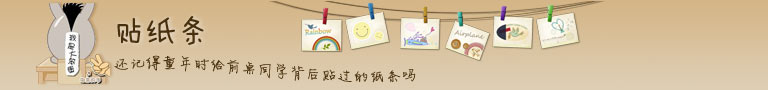
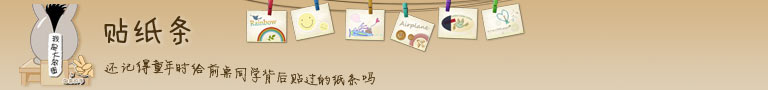
修改banner；tip min-length; add role, sex, vip, createtime；提示；点昵称可贴纸条

Changed region(s): [[0.3125, 0.0, 0.7812, 0.6667], [0.0, 0.0222, 0.5625, 0.9556]]

diff --git a/views/index.html b/views/index.html
@@ -6,18 +6,35 @@
 <link rel="stylesheet" type="text/css" href="sticker/css/jScrollPane.css" />
 <link rel="stylesheet" type="text/css" href="sticker/css/tip-yellowsimple/tip-yellowsimple.css" />
 <link rel="stylesheet" type="text/css" href="sticker/js/jBox/Skins/Brown/jbox.css"/>
-<link rel="stylesheet" type="text/css" href="sticker/css/index.css" />
-<script type="text/javascript" src="sticker/js/jquery.min.js"></script>
-<script type="text/javascript" src="sticker/js/jquery.mousewheel.js"></script>
-<script type="text/javascript" src="sticker/js/jScrollPane.js"></script>
+<link rel="stylesheet" type="text/css" href="sticker/css/index.css?v=120610" />
+<script type="text/javascript" src="sticker/js/jquery-1.4.4.min.js"></script>
+<script type="text/javascript" src="sticker/js/jquery.mousewheel.min.js"></script>
+<script type="text/javascript" src="sticker/js/jScrollPane.min.js"></script>
 <script type="text/javascript" src="sticker/js/jquery.poshytip.min.js"></script>
-<script type="text/javascript" src="sticker/js/yyapi-1.1.js"></script>
+<script type="text/javascript" src="sticker/js/yyapi-1.1_c036fa0e5b0cfd282d5d25573e33591a.js"></script>
 <script type="text/javascript" src="sticker/js/jBox/jquery.jBox-2.3.min.js"></script>
-<script type="text/javascript" src="sticker/js/jBox/i18n/jquery.jBox-zh-CN.js"></script>
+<script type="text/javascript" src="sticker/js/jBox/i18n/jquery.jBox-zh-CN.min.js"></script>
+</head>
+
+<body>
+<div class="wrap">
+    <div class="banner"></div>
+	<div class="content">
+        <div class="help">
+            <a class="icon" href="javascript:;"></a>
+            <div class="help_tips" id="help_tips"></div>
+        </div>        
+        <a href="javascript:void(0)" class="refresh">刷新</a>        
+        <div class="main" id="main">
+            <div class="list"></div>
+        </div>
+	</div>
+</div>
+</body>
 <script type="text/javascript">
-var move, cid, currentUser, isManager = false, targetUser, timer, word, list, ver = 2;
+var move, cid, currentUser, isManager = false, targetUser, timer, word, list, ver = 3;
 $(function(){
-	var tips = $('.tips');
+    var tips = $('.tips');
     word = $('.word');
     list = $('.list');
     list[0].style.height = ($(window).height() - 115) + 'px';
@@ -34,7 +51,7 @@ $(function(){
         '<div class="clearfix"></div> ',
         '</ul>',
         '<p class="btn_con"><a href="#" class="submit"></a></p>' ,
-        '</div>  ',
+        '</div>'
     ].join('');
 
     try{
@@ -60,20 +77,24 @@ $(function(){
 
     $.ajax({dataType : 'json', type : 'POST', url : '/sticker/user', data : {uid : currentUser.uid}, cache : false, timeout : 10000, contentType: "application/x-www-form-urlencoded; charset=UTF-8",
         success : function(data){
-            if(data.v < ver){
+            if(data.v < 2){
                 //公告
-                $.jBox.messager('<span style="text-indent: 2em">权限开放了！！！<span style="color:green;">嘉宾【绿马】</span>以上级别都能贴了，你还在等什么……赶紧行动吧!<p>如何贴纸条？请把你的小鼠标移到上面的【帮助】。</p></span>'
-                        , '通知'
-                        , 5000
+                var msg = '<span style="text-indent: 2em">权限开放了！！！<span style="color:green;">嘉宾【绿马】</span>以上级别都能贴了，你还在等什么……赶紧行动吧!<p>如何贴纸条？请把你的小鼠标移到上面的【帮助】。</p></span>';
+                var _ver = 2;
+            }else if(data.v == 2){
+                var msg = '<span style="text-indent: 2em">现在可以通过点击纸条浮出框中的“昵称”贴纸条了</span>';
+                var _ver = 3;
+            }
+            if(msg){
+                $.jBox.messager(msg
+                        , '提示', 5000
                         , { buttons: { '我知道了': true }
                             ,submit: function (v, h, f) {
                                 $.ajax({dataType : 'json', type : 'POST', url : '/sticker/iknow', data : {
                                     uid : currentUser.uid
-                                    ,v : ver
+                                    ,v : _ver
                                 }, cache : false, timeout : 10000, contentType: "application/x-www-form-urlencoded; charset=UTF-8",
-                                    success : function(data){
-
-                                    }
+                                    success : function(data){}
                                 });
                                 return true;
                             }
@@ -83,11 +104,15 @@ $(function(){
         }
     });
 
-	function onClicked(eventData)
-	{
+    function onClicked(eventData)
+    {
         targetUser = yy.user.getUserInfo(eventData.uid);
+        open();
+    }
+
+    function open(){
         $.jBox(html, {title:'贴纸条', width: 500,  buttons: {}});
-		$('.name').text(targetUser.name);
+        $('.name').text(targetUser.name);
         $('.word').poshytip({
             alignTo: 'target',
             showOn: 'focus',
@@ -95,7 +120,7 @@ $(function(){
             alignX: 'right',
             alignY: 'center'
         });
-	}
+    }
 
 
     function onLinkClicked(eventData)
@@ -106,8 +131,8 @@ $(function(){
     }
 
 
-	$(".main").delegate('.delete', 'click', function(e){
-		var stickerId = $(this).attr('stickerId');
+    $(".main").delegate('.delete', 'click', function(e){
+        var stickerId = $(this).attr('stickerId');
         var srcUid = $(this).attr('srcUid');
         currentUser = yy.user.getCurrentUserInfo();
         var isMySticker = false;
@@ -143,7 +168,7 @@ $(function(){
             }
             return true;
         });
-	});
+    });
 
     $(window).resize(function(e){
         if(timer) clearTimeout(timer);
@@ -167,39 +192,43 @@ $(function(){
             $.jBox.tip('你什么都没写喔……', 'info');
             return;
         }
+
         currentUser = yy.user.getCurrentUserInfo();
+
         if(currentUser.role < 88){
             $.jBox.tip('你的不够权限喔，需要绿马以上级别才能贴的，要淡定^_^', 'info');
             return;
         }
-        try{
-            var src_nick = currentUser.name;
-        }catch(e){
-            var src_nick = '--';
-        }
+
         $.jBox.tip('正在提交数据...', 'loading');
         $.ajax({dataType : 'json', type : 'POST', url : '/sticker/create', data : {
             content : content,
             cid : cid,
             src_uid : currentUser.uid,
-            src_nick : src_nick,
+            src_nick : currentUser.name,
             src_yy : currentUser.imId,
+            sr : currentUser.role,
+            ss : currentUser.sex,
+            sv : currentUser.vip,
             tar_uid : targetUser.uid,
             tar_yy : targetUser.imId,
-            tar_nick : $('.name').text()
-
+            tar_nick : targetUser.name,
+            tr : targetUser.role,
+            ts : targetUser.sex,
+            tv : targetUser.vip
         }, cache : false, timeout : 10000, contentType: "application/x-www-form-urlencoded; charset=UTF-8",
             success : function(data){
                 if(data.result == 0){
 
-                    listSticker();
-
                     try{
                         //send message to the target user
                         yy.channel.appMsg.sendMsgToUsers([targetUser.uid], "您被偷偷的贴了一张纸条", 0, 10, 1);
+                        var subChannel = yy.channel.getCurrentSubChannelInfo();
+                        yy.channel.appMsg.sendMsgToSubChannel(subChannel.longId, "有人贴了一张纸条，赶紧去围观", 0, 13, 1)
                     }catch(e){
-
                     }
+
+                    listSticker();
                 }else{
                     if(data.result == 60002){
                         $.jBox.error('请输入你想说的话');
@@ -238,6 +267,35 @@ $(function(){
         }
 
     });
+
+    $(document).delegate('.tipNick', 'click', function(){
+        var me = $(this);
+        var stickerId = me.attr('stickerId');
+        var isSource = me.hasClass('source');
+        var item = $('.item[stickerId="' + stickerId+ '"]');
+        item.poshytip('hide');
+        var tipData = item.data('tipData');
+        if(isSource){
+
+            targetUser = {};
+            targetUser.uid = tipData.src_uid;
+            targetUser.name = tipData.src_nick;
+            targetUser.imId = tipData.src_yy;
+            targetUser.role = tipData.sr;
+            targetUser.vip = tipData.sv;
+            targetUser.sex = tipData.ss;
+        }else{
+            targetUser = {};
+            targetUser.uid = tipData.tar_uid;
+            targetUser.name = tipData.tar_nick;
+            targetUser.imId = tipData.tar_yy;
+            targetUser.role = tipData.tr;
+            targetUser.vip = tipData.tv;
+            targetUser.sex = tipData.ts;
+        }
+
+        open();
+    });
 });
 
 function listSticker(){
@@ -254,16 +312,16 @@ function listSticker(){
                 if(data[i].src_uid == currentUser.uid){
                     isMySticker = true;
                 }
-                s.push('<div class="item big" ptip="', data[i].src_nick + '&nbsp;给&nbsp;',
-                    data[i].tar_nick+ '&nbsp;贴的纸条"><div class="bg">',
-                    isManager || isMySticker ? '<a href="#" class="delete" srcUid="' + data[i].src_uid+ '" stickerId="'+ data[i].id + '"></a>' : '',
-                    data[i].content, '</div></div>');
+                s.push('<div class="item big" stickerId="', data[i].id , '"><div class="bg">',
+                        isManager || isMySticker ? '<a href="#" class="delete" srcUid="' + data[i].src_uid+ '" stickerId="'+ data[i].id + '"></a>' : '',
+                        data[i].content, '</div></div>');
             }
             $('.list').html(s.join(''));
             $('.list').show();
             $('.list').jScrollPane({showArrows:false, scrollbarWidth:10, arrowSize:0});
 
             $('.item').each(function(index){
+                $(this).data('tipData', data[index]);
                 fixFont(this);
             });
 
@@ -272,9 +330,11 @@ function listSticker(){
                 alignX: 'center',
                 alignY: 'bottom'
                 ,content : function(){
-                    var title = $(this).attr('ptip');
-                    var content = $(this).text();
-                    return '<div style="color: #8C3901; border-bottom: 1px solid gray;">' + title
+                    var me = $(this);
+                    var content = me.text();
+                    var tipData = me.data('tipData');
+                    var title = '<ul><li><span style="color: grey">From</span>&nbsp;:&nbsp;<span class="tipNick source" stickerId=' + tipData.id + '>' + arrowFilter(tipData.src_nick) + '</span></li><li><span style="text-indent: 15px;color: grey">To</span>&nbsp;:&nbsp;<span class="tipNick target" stickerId=' + tipData.id + '>' + arrowFilter(tipData.tar_nick) + '</span></li></ul>';
+                    return '<div style="color: #8C3901; border-bottom: 1px solid gray;padding-bottom: 3px">' + title
                             + '</div><div style="font-weight: normal;word-break: break-all;">' +  content + '</div>';
                 }
             });
@@ -308,28 +368,6 @@ function fixFont(divObj){
     divObj.style.fontSize = rfont + "px";
 }
 
-function fixFont1(divObj){
-	var fontw=12;//parseInt(divObj.style.fontSize);
-	var fonth=fontw+2;//初始字体高度
-	var width=110;//str.offsetWidth DIV的宽度
-	var height=95;//divObj.offsetHeight;//div的高度
-	var lenstr=$(divObj).text().length;//getLength($(divObj).text());//DIV里文字长度
-	// console.debug(lenstr);
-    if(lenstr <= 0) return;
-	fonts=fontw*fonth*lenstr;//字体面积
-	divs=width*height;//DIV面积
-	//  console.debug(fontw + ',' + fonth + ',' + lenstr+ ',' + fonts + ',' + divs);
-    var rfont;//重设字体大小为rfont
-    if(lenstr <= 6){
-        rfont=Math.round((Math.sqrt(4*lenstr*divs-4*lenstr*lenstr)-2*lenstr)/(2*lenstr) * 0.6);
-        divObj.style.fontSize=rfont+"px";
-        return;
-    }
-	rfont=Math.round((Math.sqrt(4*lenstr*divs-4*lenstr*lenstr)-2*lenstr)/(2*lenstr));
-	divObj.style.fontSize=rfont+"px";
-
-}
-
 function getLength(str) {
     var len = str.length;
     var reLen = 0;
@@ -344,23 +382,13 @@ function getLength(str) {
     }
     return reLen;
 }
+
+String.prototype.replaceAll  = function(s1,s2){
+    return this.replace(new RegExp(s1,"gm"),s2);
+}
+
+function arrowFilter(s){
+    return s.replaceAll('<', '&lt;').replaceAll('>', '&gt;');
+}
 </script>
-</head>
-
-<body>
-<div class="wrap">
-    <div class="banner"></div>
-	<div class="content">
-        <div class="help">
-            <a class="icon" href="javascript:;"></a>
-            <div class="help_tips" id="help_tips"></div>
-        </div>
-        <a href="javascript:void(0)" class="refresh">刷新</a>
-		<div class="main" id="main">
-            <div class="list"></div>
-        </div>
-	</div>
-</div>
-
-</body>
 </html>

diff --git a/public/css/index.css b/public/css/index.css
@@ -57,7 +57,7 @@ ul, li, dl, dt, dd, form {
 }
 
 .banner {
-    background: url(../images/banner.jpg) no-repeat;
+    background: url(../images/banner.jpg?120611) no-repeat;
     width: 768px;
     height: 90px;
     margin: 0 auto;
@@ -267,4 +267,26 @@ ul, li, dl, dt, dd, form {
 .refresh:hover {
     text-decoration: underline;
 }
+
+.tipNick {
+    /*background-color: #BC7A00;*/
+    /*color:white;*/
+    cursor: pointer;
+    /*border: 1px solid #8c3901;*/
+    display:inline-block;
+}
+
+.menu{ position:absolute; right:0; top:-33px; background:url(../images/menu_bg.jpg) no-repeat; width:363px; height:36px; padding:0 0 0 13px;}
+.menu .type1, .menu .type2, .menu .type3, .menu .type4, .menu .type5{ display:block;width:66px; height:22px; overflow:hidden; float:left; margin:6px 5px 0 0;background:url(../images/menu.gif) no-repeat;}
+.menu .type1{ background-position:0 0;}
+.menu .type1:hover{ background-position:-67px 0;}
+.menu .type2{ background-position:0 -23px;}
+.menu .type2:hover{ background-position:-67px -23px;}
+.menu .type3{ background-position:0 -46px;}
+.menu .type3:hover{ background-position:-67px -46px;}
+.menu .type4{ background-position:0 -69px;}
+.menu .type4:hover{ background-position:-67px -69px;}
+.menu .type5{ background-position:0 -92px;}
+.menu .type5:hover{ background-position:-67px -92px;}
+
 

diff --git a/routes/index.js b/routes/index.js
@@ -70,17 +70,23 @@ exports.create = function(req, res){
 
         //sticker key
 		var tztKey = 'yy:sticker:' + id;
-//        logger.info('sticker Key = ' + tztKey);
 
 		multi.set(tztKey, JSON.stringify({
 				id : id,
 				src_uid : req.param('src_uid'),
 				src_nick : req.param('src_nick'),
                 src_yy : req.param('src_yy'),
+                sr : req.param('sr'),
+                ss : req.param('ss'),
+                sv : req.param('sv'),
 				cid : req.param('cid'),
 				tar_uid: req.param('tar_uid'),
                 tar_yy : req.param('tar_yy'),
 				tar_nick : req.param('tar_nick'),
+                tr : req.param('tr'),
+                ts : req.param('ts'),
+                tv : req.param('tv'),
+                ct : new Date().getTime(),
 				content: req.param('content')
 			}));
 

diff --git a/public/css/tip-yellowsimple/tip-yellowsimple.css b/public/css/tip-yellowsimple/tip-yellowsimple.css
@@ -6,7 +6,7 @@
 	-moz-border-radius:4px;
 	-webkit-border-radius:4px;
 	padding:6px 8px;
-	min-width:50px;
+	min-width:150px;
 	max-width:300px;
 	color:#000;
 	background-color:#fff9c9;
